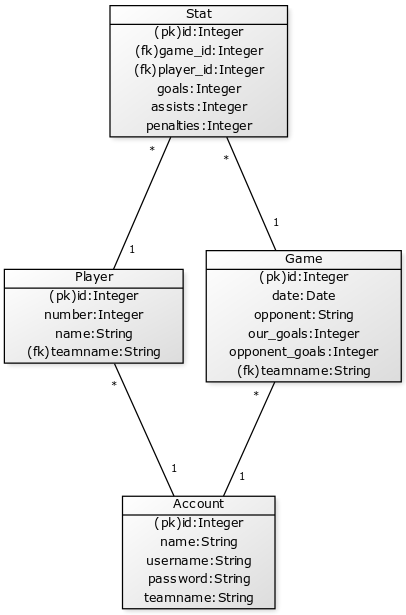
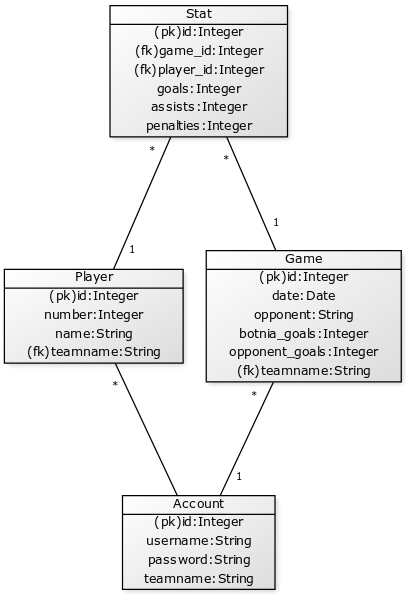
Tietokantarakennetta päivitetty.

diff --git a/documentation/tietokantarakenne.md b/documentation/tietokantarakenne.md
@@ -29,7 +29,7 @@ nimestä, joten samalle joukkueelle voidaan luoda useampi käyttäjä.
 
 [Stat|(pk)id:Integer;(fk)game_id:Integer;(fk)player_id:Integer;goals:Integer;assists:Integer;penalties:Integer]
 
-[Account|(pk)id:Integer;name:String;username:String;password:String;teamname:String]
+[Account|(pk)id:Integer;username:String;password:String;teamname:String]
 
 [Stat]*-1[Player]
 
